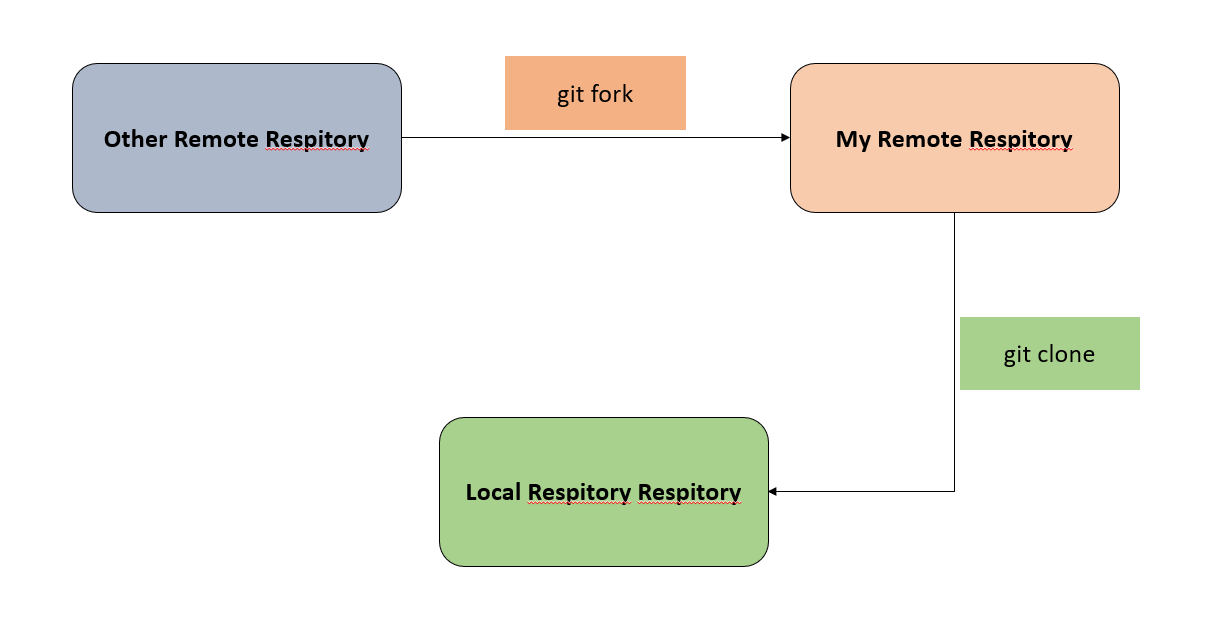
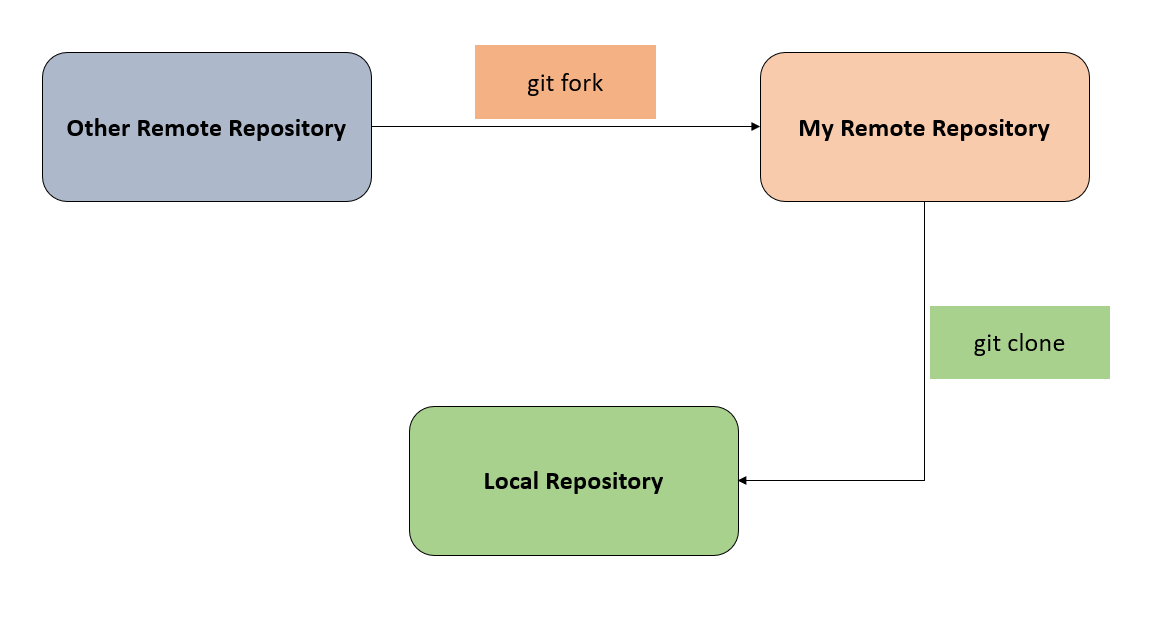
Fix spelling mistake and other bug Successfully

diff --git a/README.md b/README.md
@@ -16,12 +16,12 @@ git config --local/global/system --unset user.name/user.email
 <img src="./Github1.png">
 <img src="./Github2.png">
 
-### Initialize GIT
+### Initialize Git
 ```bash
 git init
 ```
 
-### Check The Condition
+### Check Status
 ```bash
 git status              (To see Staging or Unstaging Status)
 git log                 (To see commit Status) 
@@ -30,7 +30,7 @@ git log --oneline       (To see commit id)
 
 ### Traverse Head
 ```bash
-git checkout <id/branch_name>
+git checkout <commit_id/branch_name>
 ```
 
 ### To See Connection
@@ -43,38 +43,38 @@ git remote -v
 git branch              (To see All branch name)
 ```
 
-### Working Directory To Stagging Directory And Vice Versa
+### Working Directory To Staging Directory And Vice Versa
 ```bash
-git add <fileame>                              (For single file)
+git add <filename>                              (For single file)
 git add <filename> <filename> ...              (For multiple file)
 git add .                                      (For all file)
 
-git rm -- cached <filename>                    (For single file)
-git rm -- cached <filename> <filename> ...     (For single file)
-git rm --cached -r .                           (For single file)
+git rm --cached <filename>                    (For single file)
+git rm --cached <filename> <filename> ...     (For multiple file)
+git rm --cached -r .                           (For all file)
 ```
 
 
-### Stagging Directory To Local Respitory And Vice Versa
+### Staging Directory To Local Repository And Vice Versa
 ```bash
-git commit -m "<Messeage>"            
-git commit -m "<Messeage>" -m "<Messeage>" -m "<Messeage>" ....
+git commit -m "<Message>"            
+git commit -m "<Message>" -m "<Message>" -m "<Message>" ....
 
-git reset --soft HEAD~1                        (To Stagging Directory)
+git reset --soft HEAD~1                        (To Staging Directory)
 git reset HEAD~1                               (To Working Directory)
 git reset --hard HEAD~1                        (Delete commit File)
 ```
-### Connection Established with Local Respitory
+### Connection Established with Local Repository
 ```bash
 git remote add <name> <url>
 ```
 
-### Local Respitory To Remote Respitory
+### Local Repository To Remote Repository
 ```bash
 git push -u <url_name> <branch_name>
 ```
 
-### Remote Respitory To Working Directory
+### Remote Repository To Working Directory
 ```bash
 git clone <url_name>
 ```
@@ -90,7 +90,7 @@ git merge <branch_name>                         (To merge Branch)
 ```bash
 git init
 git add .
-git commit -m "<Messeage>"
+git commit -m "<Message>"
 git remote add <name_url> <url>
 git push -u <name_url> <branch_name>
 ```
